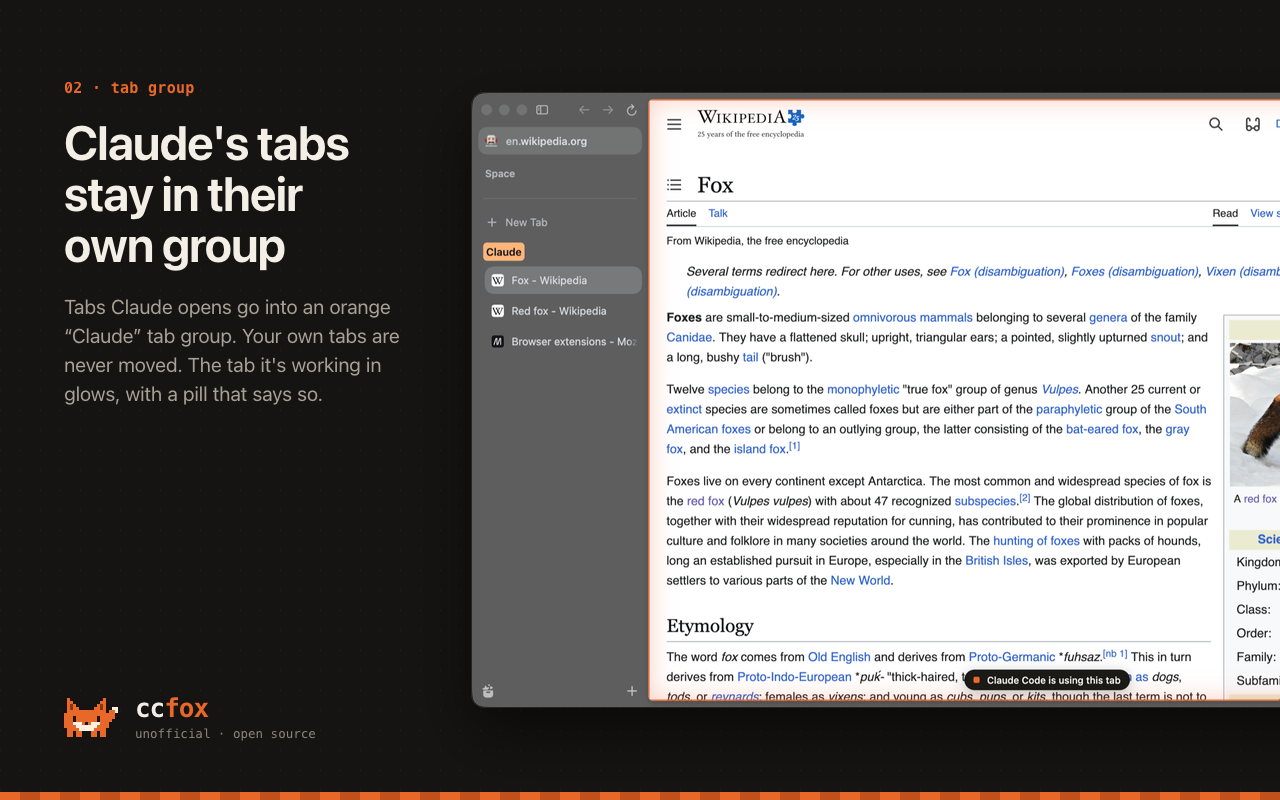
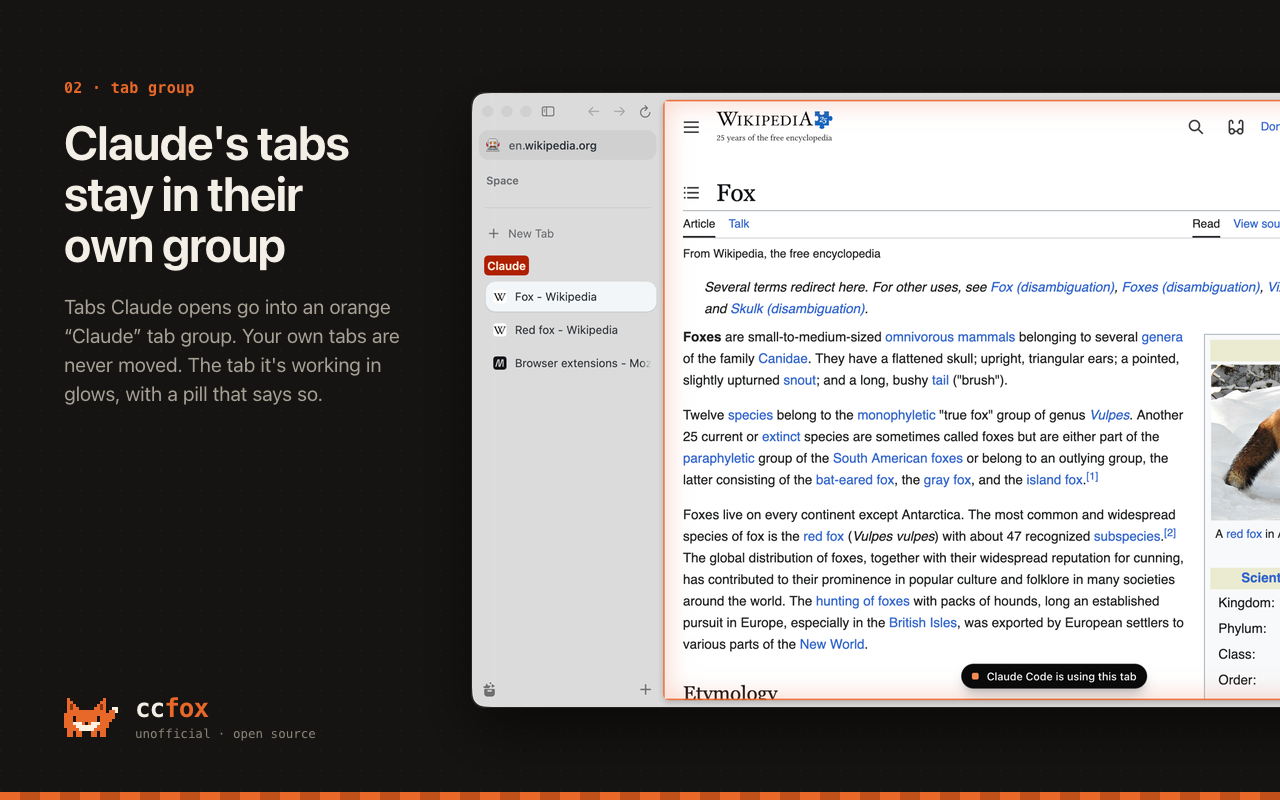
0.8.0 screenshots, release notes and neutral demo data

Changed region(s): [[0.3438, 0.0938, 1.0, 0.9062]]

diff --git a/dev/mock-browser.js b/dev/mock-browser.js
@@ -24,9 +24,9 @@
       skill("fill-expenses", "Fill the expense form from receipts in other tabs (user)"),
       skill("release-notes", "Draft release notes from merged pull requests (project)"),
       skill("code-review:review", "Review a pull request for bugs and risky changes (code-review)", "[PR]"),
-      skill("mattpocock-skills:research", "(mattpocock-skills) Investigate a question against primary sources and write findings to a file"),
-      skill("mattpocock-skills:tdd", "(mattpocock-skills) Test-driven development: red, green, refactor"),
-      skill("mattpocock-skills:grill-me", "(mattpocock-skills) A relentless interview to sharpen a plan or design"),
+      skill("test-kit:research", "(test-kit) Investigate a question against primary sources and write findings to a file"),
+      skill("test-kit:tdd", "(test-kit) Test-driven development: red, green, refactor"),
+      skill("test-kit:grill-me", "(test-kit) A relentless interview to sharpen a plan or design"),
       skill("design-kit:critique", "Critique a page's layout, typography and accessibility"),
       skill("pdf", "Read, merge, split or fill PDF files (claude.ai sync)"),
       skill("xlsx", "Open, clean up or build spreadsheets (claude.ai sync)"),
@@ -43,7 +43,7 @@
     ],
     plugins: [
       { name: "code-review", version: "1.2.0", source: "code-review@claude-plugins-official" },
-      { name: "mattpocock-skills", version: "1.3.1", source: "mattpocock-skills@mattpocock" },
+      { name: "test-kit", version: "1.3.1", source: "test-kit@marketplace" },
       { name: "design-kit", version: "1.2.0", source: "design-kit@marketplace" },
       { name: "reading-list", version: "0.1.0", source: "reading-list@marketplace" },
     ],

diff --git a/store/reviewer-notes.md b/store/reviewer-notes.md
@@ -1,4 +1,4 @@
-ccfox 0.7.0. Unofficial open-source (MIT) side panel and browser tools for Claude Code, the user's own locally installed agent. Full notes: https://github.com/thedankest/ccfox/blob/main/store/reviewer-notes-full.md
+ccfox 0.8.0. Unofficial open-source (MIT) side panel and browser tools for Claude Code, the user's own locally installed agent. Full notes: https://github.com/thedankest/ccfox/blob/main/store/reviewer-notes-full.md
 
 NATIVE HELPER REQUIRED
 The add-on only talks to the native messaging host "ccfox": plain, unminified Node.js in the same repo (host/, server/). It runs Claude Agent SDK sessions on the user's `claude` binary and listens only on a private Unix socket (~/.ccfox/bridge.sock, 0600), never the network.

diff --git a/store/listing.md b/store/listing.md
@@ -46,6 +46,10 @@ ccfox puts the Claude Code you already have in the side panel of Zen or Firefox,
 
 Source code, issues and setup help: https://github.com/thedankest/ccfox
 
+## Release notes for 0.8.0
+
+Redesigned side panel: cleaner shadcn-style look, Lucide icons (Settings is now a gear), a calmer thinking indicator and a highlighted approval card. Neutral example data in screenshots.
+
 ## Release notes for 0.7.0
 
 First release on addons.mozilla.org. Permanent add-on ID, Firefox data-collection disclosure, and no runtime code execution in this build (javascript_exec is in the developer build only).
